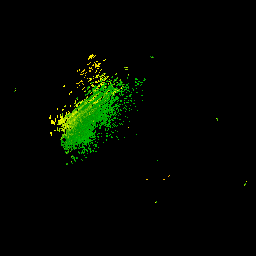
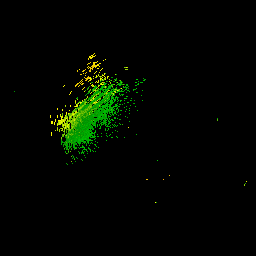
Input radar instead of list of radars

diff --git a/steiner_smith.py b/steiner_smith.py
@@ -18,10 +18,10 @@ def compute_spinchange(data, window=(11, 21)):
     return spin / possible
 
 def steiner_smith(radar, refl_thresh=5, spin_thresh_a=8, spin_thresh_b=40, spin_thresh_c=15, grad_thresh=20):
-    data0 = radar[0].get_field(0, 'reflectivity')
-    x0, y0, _ = radar[0].get_gate_x_y_z(0)
-    data2 = radar[2].get_field(0, 'reflectivity')
-    x2, y2, _ = radar[2].get_gate_x_y_z(0)
+    data0 = radar.get_field(0, 'reflectivity')
+    x0, y0, _ = radar.get_gate_x_y_z(0)
+    data2 = radar.get_field(2, 'reflectivity')
+    x2, y2, _ = radar.get_gate_x_y_z(2)
     src = np.column_stack((x2.ravel(), y2.ravel()))
     trg = np.column_stack((x0.ravel(), y0.ravel()))
     data2 = ipol_nearest(src, trg, data2.ravel()).reshape(data0.shape)
@@ -31,7 +31,7 @@ def steiner_smith(radar, refl_thresh=5, spin_thresh_a=8, spin_thresh_b=40, spin_
     echotop = data2.filled(0) >= refl_thresh
     echotop = scipy.ndimage.morphology.binary_dilation(echotop)
     spinchange = compute_spinchange(data0.filled(0)) >= spin_thresh
-    elevation_diff = np.median(radar[2].elevation['data']) - np.median(radar[0].elevation['data'])
+    elevation_diff = np.median(radar.get_elevation(2)) - np.median(radar.get_elevation(0))
     vertgrad = np.abs(data0 - data2).filled(0) > grad_thresh * elevation_diff
 
     r1 = ~zpixel
@@ -67,14 +67,13 @@ if __name__ == '__main__':
         print fname
 
         try:
-            # hack to avoid data interpolating by pyart
-            radar = [pyart.io.read(os.path.join('data', fname), scans=[i]) for i in range(3)]
+            radar = pyart.io.read(os.path.join('data', fname), scans=[0, 1, 2], linear_interp=False)
         except ValueError:
             print "Can't read radar file. Please update PyART."
             continue
 
-        ref = radar[0].get_field(0, 'reflectivity')
-        x, y, _ = radar[0].get_gate_x_y_z(0)
+        ref = radar.get_field(0, 'reflectivity')
+        x, y, _ = radar.get_gate_x_y_z(0)
         grid = togrid(ref, x, y, gridsize=256, lim=250)
         dump_ref_cmap('img/{}_orig.png'.format(fname), grid)
 

diff --git a/README.md b/README.md
@@ -49,11 +49,6 @@ Notes
   In particular, I had to changed GRADthresh from 10 dBZ/deg to 20 dBZ/deg to
   match the result from the paper.
 
-- The pyart library, used for reading the radar files, sometimes performs
-  linear interpolation in the radial direction when reading files, which
-  affects the SPINchange feature. I use a hack to prevent the linear
-  interpolation.
-
 
 References
 ----------
